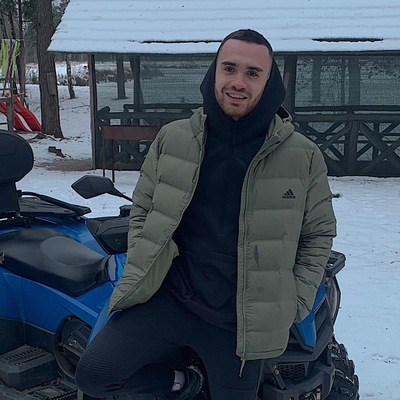
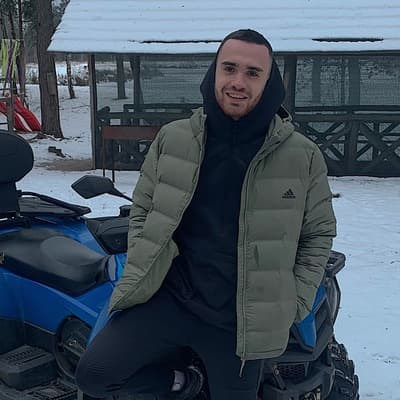
виправлення зауважень по PageSpeed Insights

Changed region(s): [[0.99, 0.36, 1.0, 0.39], [0.3, 0.48, 0.33, 0.51], [0.0, 0.21, 0.03, 0.24]]

diff --git a/src/partials/footer-modal.html b/src/partials/footer-modal.html
@@ -53,6 +53,8 @@
                             <p class='footer-modal__img'>  
                                 <a href="https://www.linkedin.com/in/mykhailo-kuzich/" target="_blank">
                                     <img srcset="/src/images/footer-photo/MykhailoKuzich-200.jpg 1x, /src/images/footer-photo/MykhailoKuzich-400.jpg 2x" 
+                                    width="200"
+                                    height="200"
                                     src="/src/images/footer-photo/MykhailoKuzich-200.jpg" 
                                     alt="Mykhailo Kuzich" />
                                 </a>
@@ -75,7 +77,10 @@
                             <p class='footer-modal__img'>
                                 <a href="https://www.linkedin.com/in/iryna-zhuk-846930230/" target="_blank">
                                     <img srcset="/src/images/footer-photo/IrynaZhuk-200.jpg 1x, /src/images/footer-photo/IrynaZhuk-400.jpg 2x"
-                                    src="/src/images/footer-photo/IrynaZhuk-200.jpg" alt="Iryna Zhuk" />
+                                    width="200"
+                                    height="200"
+                                    src="/src/images/footer-photo/IrynaZhuk-200.jpg" 
+                                    alt="Iryna Zhuk" />
                                 </a>
                             </p>
                             <div class='info'>
@@ -97,7 +102,10 @@
                             <p class='footer-modal__img'>
                                 <a href="https://www.linkedin.com/in/olesia-hlushenkova-72577323b" target="_blank">
                                     <img srcset="/src/images/footer-photo/OlesiaHlushenkova-200.jpg 1x, /src/images/footer-photo/OlesiaHlushenkova-400.jpg 2x"
-                                    src="/src/images/footer-photo/OlesiaHlushenkova-200.jpg" alt="Olesia Hlushenkova" />
+                                    width="200"
+                                    height="200"
+                                    src="/src/images/footer-photo/OlesiaHlushenkova-200.jpg" 
+                                    alt="Olesia Hlushenkova" />
                                 </a>
                             </p>
                             <div class='info'>
@@ -116,7 +124,10 @@
                             <p class='footer-modal__img'>
                                 <a href="https://www.linkedin.com/in/vitaliy-dianov/" target="_blank">
                                     <img srcset="/src/images/footer-photo/VitaliyDianov-200.jpg 1x, /src/images/footer-photo/VitaliyDianov-400.jpg 2x"
-                                    src="/src/images/footer-photo/VitaliyDianov-200.jpg" alt="Vitaliy Dianov" />
+                                    width="200"
+                                    height="200"
+                                    src="/src/images/footer-photo/VitaliyDianov-200.jpg" 
+                                    alt="Vitaliy Dianov" />
                                 </a>
                             </p>
                             <div class='info'>
@@ -137,7 +148,10 @@
                             <p class='footer-modal__img'>
                                 <a href="https://www.linkedin.com/in/nedzhat-kukharenko-26b7841a1/" target="_blank">
                                     <img srcset="/src/images/footer-photo/NedzhatKukharenko-200.jpg 1x, /src/images/footer-photo/NedzhatKukharenko-400.jpg 2x"
-                                    src="/src/images/footer-photo/NedzhatKukharenko-200.jpg" alt="Nedzhat Kukharenko" />
+                                    width="200"
+                                    height="200"
+                                    src="/src/images/footer-photo/NedzhatKukharenko-200.jpg" 
+                                    alt="Nedzhat Kukharenko" />
                                 </a>
                             </p>
                             <div class='info'>
@@ -158,7 +172,10 @@
                             <p class='footer-modal__img'>
                                 <a href="https://www.linkedin.com/in/volodymyr-horin-895ba223b/" target="_blank">
                                     <img srcset="/src/images/footer-photo/HorinVolodymyr-200.jpg 1x, /src/images/footer-photo/HorinVolodymyr-400.jpg 2x"
-                                    src="/src/images/footer-photo/HorinVolodymyr-200.jpg" alt="Horin Volodymyr" />
+                                    width="200"
+                                    height="200"
+                                    src="/src/images/footer-photo/HorinVolodymyr-200.jpg" 
+                                    alt="Horin Volodymyr" />
                                 </a>
                             </p>
                             <div class='info'>
@@ -179,7 +196,10 @@
                             <p class='footer-modal__img'>
                                 <a href="https://www.linkedin.com/in/shalfey-meow-799a2a240/" target="_blank">
                                     <img srcset="/src/images/footer-photo/MarinaChecheneva-200.jpg 1x, /src/images/footer-photo/MarinaChecheneva-400.jpg 2x"
-                                    src="/src/images/footer-photo/MarinaChecheneva-200.jpg" alt="Marina Checheneva" />
+                                    width="200"
+                                    height="200"
+                                    src="/src/images/footer-photo/MarinaChecheneva-200.jpg" 
+                                    alt="Marina Checheneva" />
                                 </a>
                             </p>
                             <div class='info'>
@@ -200,7 +220,10 @@
                             <p class='footer-modal__img'>
                                 <a href="https://www.linkedin.com/in/orest-znak-26b346ba/" target="_blank">
                                     <img srcset="/src/images/footer-photo/OrestZnak-200.jpg 1x, /src/images/footer-photo/OrestZnak-400.jpg 2x"
-                                    src="/src/images/footer-photo/OrestZnak-200.jpg" alt="Orest Znak" />
+                                    width="200"
+                                    height="200"
+                                    src="/src/images/footer-photo/OrestZnak-200.jpg" 
+                                    alt="Orest Znak" />
                                 </a>
                             </p>
                             <div class='info'>
@@ -222,7 +245,10 @@
                             <p class='footer-modal__img'>
                                 <a href="https://www.linkedin.com/in/yana-zakrevskaya-833907120/" target="_blank">
                                     <img srcset="/src/images/footer-photo/YanaZakrevskaya-200.jpg 1x, /src/images/footer-photo/YanaZakrevskaya-400.jpg 2x"
-                                    src="/src/images/footer-photo/YanaZakrevskaya-200.jpg" alt="Ivanna Humeniuk" />
+                                    width="200"
+                                    height="200"
+                                    src="/src/images/footer-photo/YanaZakrevskaya-200.jpg" 
+                                    alt="Ivanna Humeniuk" />
                                 </a>
                             </p>
                             <div class='info'>
